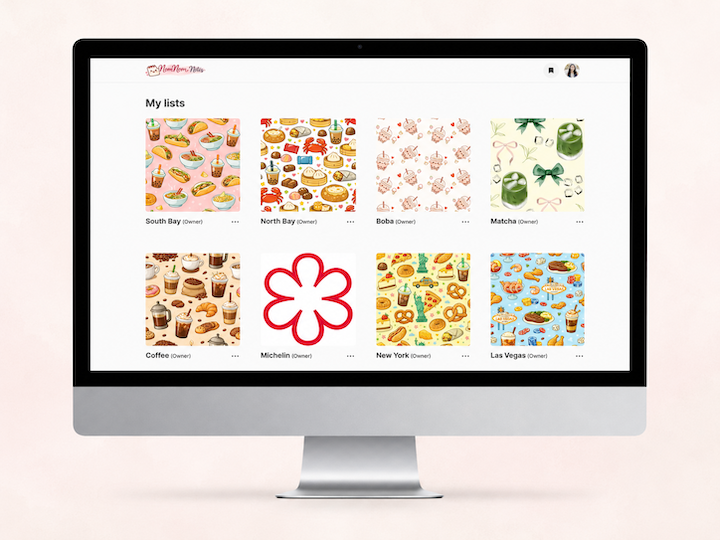
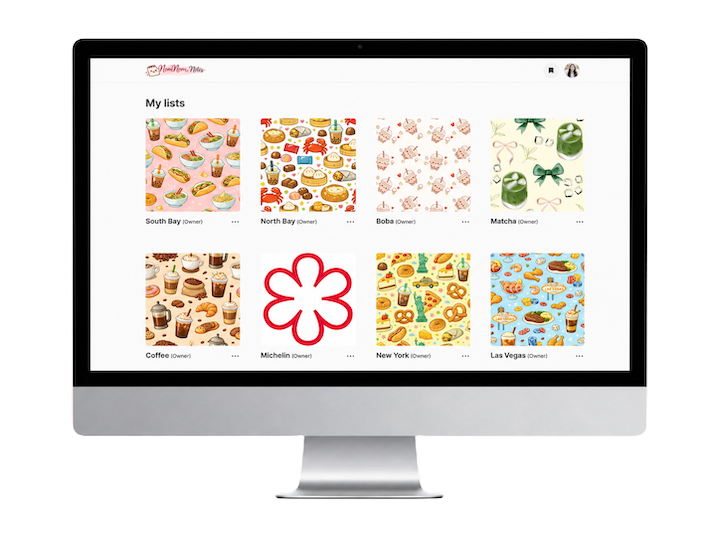
Updated some stylings, moved the about page into the homepage for users who are not signed in.

Changed region(s): [[0.1528, 0.8889, 0.825, 0.9481]]

diff --git a/src/app/components/Hero.tsx b/src/app/components/Hero.tsx
@@ -1,0 +1,85 @@
+'use client';
+
+import { useState } from 'react';
+import { useFormStatus } from 'react-dom';
+import Link from 'next/link';
+import { requestAccess } from '@/app/actions/home';
+
+export default function Hero() {
+  const [inputEmail, setInputEmail] = useState('');
+  const [message, setMessage] = useState<string | null>(null);
+
+  const { pending } = useFormStatus();
+
+  const handleSubmit = async (e: React.FormEvent<HTMLFormElement>) => {
+    e.preventDefault();
+
+    const form = e.currentTarget;
+    const formData = new FormData(form);
+
+    const result = await requestAccess(formData);
+
+    if (result.error) {
+      setMessage('An error occurred. Please try again.');
+    } else {
+      setMessage('Request sent successfully! Please allow a few days for approval.');
+    }
+
+    setInputEmail('');
+  }
+
+  const scrollToFeatures = () => {
+    document.querySelector('.homepage-layout-inner')?.scrollIntoView({ behavior: 'smooth' });
+  };
+
+  return (
+    <div className="relative flex h-full w-full items-center justify-center px-8">
+      <div className="max-w-[640px] w-full flex flex-col items-center gap-4 text-center 2xl:max-w-[840px] 2xl:gap-6">
+        <h1 className="2xl:text-8xl/24">Your Personal Restaurant Journal</h1>
+        <p className="subheading pb-2">Record memorable dining experiences, keep track of every restaurant you've visited, and remember every dish you've loved.</p>
+        <div className="max-w-[500px] w-full p-8 bg-snowwhite border border-darkpink/10 rounded-3xl shadow-[0_4px_24px_rgba(0,0,0,0.06)] 2xl:max-w-[640px] 2xl:p-12">
+          <form onSubmit={handleSubmit} className="flex flex-col gap-2">
+            <div className="relative mb-2">
+              <svg xmlns="http://www.w3.org/2000/svg" fill="none" viewBox="0 0 24 24" strokeWidth={1.5} stroke="currentColor"
+                className="absolute left-3 top-1/2 -translate-y-1/2 size-6 text-slategray pointer-events-none" aria-hidden="true">
+                <path strokeLinecap="round" strokeLinejoin="round" d="M21.75 6.75v10.5a2.25 2.25 0 0 1-2.25 2.25h-15a2.25 2.25 0 0 1-2.25-2.25V6.75m19.5 0A2.25 2.25 0 0 0 19.5 4.5h-15a2.25 2.25 0 0 0-2.25 2.25m19.5 0v.243a2.25 2.25 0 0 1-1.07 1.916l-7.5 4.615a2.25 2.25 0 0 1-2.36 0L3.32 8.91a2.25 2.25 0 0 1-1.07-1.916V6.75" />
+              </svg>
+              <input id="requestor-email" name="requestor-email" type="email" placeholder="Enter your email" value={inputEmail} onChange={(e) => setInputEmail(e.target.value)}
+                className="input w-full pl-11 mb-0" autoComplete="off" />
+            </div>
+            <button type="submit" className="button-primary w-full">
+              {pending
+                ? (<svg xmlns="http://www.w3.org/2000/svg" fill="none" viewBox="0 0 24 24" strokeWidth={1.5} stroke="currentColor" className="block m-auto size-6 animate-spin" >
+                  <path strokeLinecap="round" strokeLinejoin="round" d="M16.023 9.348h4.992v-.001M2.985 19.644v-4.992m0 0h4.992m-4.993 0 3.181 3.183a8.25 8.25 0 0 0 13.803-3.7M4.031 9.865a8.25 8.25 0 0 1 13.803-3.7l3.181 3.182m0-4.991v4.99" />
+                </svg>)
+                : ("Get access")
+              }
+            </button>
+          </form>
+          { // Display a message if it exists
+            message && (
+              <p className="mt-2">{message}</p>
+            )
+          }
+        </div>
+        <p className="font-light">
+          Already have an access code?{" "}
+          <Link href="/sign-up" className="link-cta group font-normal">
+            <span>Get started now</span>
+            <svg xmlns="http://www.w3.org/2000/svg" fill="none" viewBox="0 0 24 24" strokeWidth={1.5} stroke="currentColor"
+              className="size-6 transition-transform group-hover:translate-x-1">
+              <path strokeLinecap="round" strokeLinejoin="round" d="M17.25 8.25 21 12m0 0-3.75 3.75M21 12H3" />
+            </svg>
+          </Link>
+        </p>
+      </div>
+      <button type="button" onClick={scrollToFeatures} aria-label="Scroll to explore features"
+        className="absolute bottom-8 left-1/2 -translate-x-1/2 flex flex-col items-center gap-1 text-slategray hover:text-darkpink transition-colors cursor-pointer">
+        <span className="font-light">Scroll to explore</span>
+        <svg xmlns="http://www.w3.org/2000/svg" fill="none" viewBox="0 0 24 24" strokeWidth={1.5} stroke="currentColor" className="size-6">
+          <path strokeLinecap="round" strokeLinejoin="round" d="m4.5 5.25 7.5 7.5 7.5-7.5m-15 6 7.5 7.5 7.5-7.5" />
+        </svg>
+      </button>
+    </div>
+  );
+}

diff --git a/src/app/page.tsx b/src/app/page.tsx
@@ -1,26 +1,52 @@
 import { Suspense } from 'react';
 import getCurrentUser from '@/app/lib/getCurrentUser';
+import PublicNav from '@/app/components/PublicNav';
 import Nav from '@/app/components/Nav';
+import Hero from '@/app/components/Hero';
+import Overview from '@/app/components/Overview';
+import HowItWorks from '@/app/components/HowItWorks';
 import ListsLoading from '@/app/components/ListsLoading';
 import DndWrapper from '@/app/components/DndWrapper';
-import CustomLists from '@/app/components/CustomLists';
+import CustomLists from '@/app/lists/CustomLists';
 
 export default async function HomePage() {
-  const userId = await getCurrentUser(false);
+  const userId = await getCurrentUser(true);
 
   return (
     <div className="outer-layout">
-      <Nav userId={userId} />
-      <div className="page-layout">
-        <div className="page-layout-inner space-y-6 xl:space-y-8">
-          <h1 className="page-heading">My lists</h1>
-          <Suspense fallback={<ListsLoading />}>
-            <DndWrapper>
-              <CustomLists userId={userId} />
-            </DndWrapper>
-          </Suspense>
-        </div>
-      </div>
+      { // Display a different page for public vs. registered users
+        userId === 'public' ?
+          <>
+            <PublicNav />
+            <div className="homepage-layout">
+              <section className="bg-texture">
+                <Hero />
+              </section>
+              <div className="homepage-layout-inner">
+                <section>
+                  <Overview />
+                </section>
+                <section>
+                  <HowItWorks />
+                </section>
+              </div>
+            </div>
+          </>
+          :
+          <>
+            <Nav userId={userId} />
+            <div className="page-layout">
+              <div className="page-layout-inner space-y-6 xl:space-y-8">
+                <h1 className="page-heading">My lists</h1>
+                <Suspense fallback={<ListsLoading />}>
+                  <DndWrapper>
+                    <CustomLists userId={userId} />
+                  </DndWrapper>
+                </Suspense>
+              </div>
+            </div>
+          </>
+      }
     </div>
   );
 }

diff --git a/src/app/components/PublicNav.tsx b/src/app/components/PublicNav.tsx
@@ -6,7 +6,7 @@ export default function Nav() {
     <div className="nav-layout">
       <div className="nav-layout-inner">
       <div>
-          <Link href="/about">
+          <Link href="/">
             {/* Mobile logo */}
             <Image src="/logo-mobile.png" alt="NomNom Notes logo"
               width={70} height={45} className="block md:hidden"
@@ -18,15 +18,11 @@ export default function Nav() {
           </Link>
         </div>
         <ul className="flex flex-row items-center gap-4">
-          <Link href="/sign-in">
-            <li className="nav-button-text">
-              Sign In
-            </li>
+          <Link href="/sign-in" className="button-secondary text-center">
+            <li>Sign In</li>
           </Link>
-          <Link href="/sign-up">
-            <li className="nav-button-text text-snowwhite bg-darkpink">
-              Sign Up
-            </li>
+          <Link href="/sign-up" className="button-primary text-center">
+            <li>Sign Up</li>
           </Link>
         </ul>
       </div>

diff --git a/src/app/globals.css b/src/app/globals.css
@@ -55,7 +55,7 @@
     @apply p-8 xl:p-12;
   }
   .homepage-layout section.bg-texture {
-    @apply min-h-[calc(100vh-60px)] md:min-h-[calc(100vh-80px)]
+    @apply relative flex flex-col h-[calc(100vh-60px)] md:h-[calc(100vh-80px)] shrink-0
       bg-[url('/images/bg-texture.png')] bg-cover bg-center bg-no-repeat;
   }
   .homepage-layout section:not(.bg-texture) {
@@ -65,10 +65,6 @@
   /** navigation **/ 
   .nav-button {
     @apply w-[40px] h-[40px] flex items-center justify-center rounded-full shadow-[0_1px_2px_rgba(0,0,0,0.06)] hover:shadow-[0_2px_4px_rgba(0,0,0,0.08)] transition md:w-[50px] md:h-[50px];
-    background: #F3F3F3;
-  }
-  .nav-button-text {
-    @apply px-6 py-2 flex items-center justify-center rounded-[10px] shadow-[0_1px_2px_rgba(0,0,0,0.06)] hover:shadow-[0_2px_4px_rgba(0,0,0,0.08)] transition;
     background: #F3F3F3;
   }
   .nav-submenu {

diff --git a/src/app/lists/page.tsx b/src/app/lists/page.tsx
@@ -1,0 +1,26 @@
+import { Suspense } from 'react';
+import getCurrentUser from '@/app/lib/getCurrentUser';
+import Nav from '@/app/components/Nav';
+import ListsLoading from '@/app/components/ListsLoading';
+import DndWrapper from '@/app/components/DndWrapper';
+import CustomLists from './CustomLists';
+
+export default async function Page() {
+  const userId = await getCurrentUser(false);
+
+  return (
+    <div className="outer-layout">
+      <Nav userId={userId} />
+      <div className="page-layout">
+        <div className="page-layout-inner space-y-6 xl:space-y-8">
+          <h1 className="page-heading">My lists</h1>
+          <Suspense fallback={<ListsLoading />}>
+            <DndWrapper>
+              <CustomLists userId={userId} />
+            </DndWrapper>
+          </Suspense>
+        </div>
+      </div>
+    </div>
+  );
+}

diff --git a/src/app/components/Nav.tsx b/src/app/components/Nav.tsx
@@ -23,7 +23,7 @@ export default async function Nav({ userId }: { userId: string }) {
           </Link>
         </div>
         <ul className="flex flex-row items-center gap-4">
-          <Link href="/">
+          <Link href="/lists">
             <li className="nav-button">
               <svg xmlns="http://www.w3.org/2000/svg" viewBox="0 0 24 24" fill="currentColor" className="size-5 md:size-6">
                 <path fillRule="evenodd" d="M6.32 2.577a49.255 49.255 0 0 1 11.36 0c1.497.174 2.57 1.46 2.57 2.93V21a.75.75 0 0 1-1.085.67L12 18.089l-7.165 3.583A.75.75 0 0 1 3.75 21V5.507c0-1.47 1.073-2.756 2.57-2.93Z" clipRule="evenodd" />

diff --git a/src/app/lists/ListCard.tsx b/src/app/lists/ListCard.tsx
@@ -6,7 +6,7 @@ import type { Identifier, XYCoord } from 'dnd-core';
 import Link from 'next/link';
 import Image from 'next/image';
 import { User, List } from '@/app/interfaces/interfaces';
-import ImageInput from './ImageInput';
+import ImageInput from '@/app/components/ImageInput';
 import { uploadImage } from '@/app/lib/uploadImage';
 import { removeUser } from '@/app/actions/user';
 import { updateList, deleteList, removeList, moveList } from '@/app/actions/list';

diff --git a/src/app/lists/ListAddCard.tsx b/src/app/lists/ListAddCard.tsx
@@ -2,7 +2,7 @@
 
 import { useState } from 'react';
 import { useFormStatus } from 'react-dom';
-import ImageInput from './ImageInput';
+import ImageInput from '@/app/components/ImageInput';
 import { addList } from '@/app/actions/list';
 import { uploadImage } from '@/app/lib/uploadImage';
 

diff --git a/src/middleware.ts b/src/middleware.ts
@@ -12,5 +12,5 @@ export function middleware(request: NextRequest) {
 }
 
 export const config = {
-  matcher: ['/', '/invite/:path*'],
+  matcher: ['/invite/:path*'],
 };
